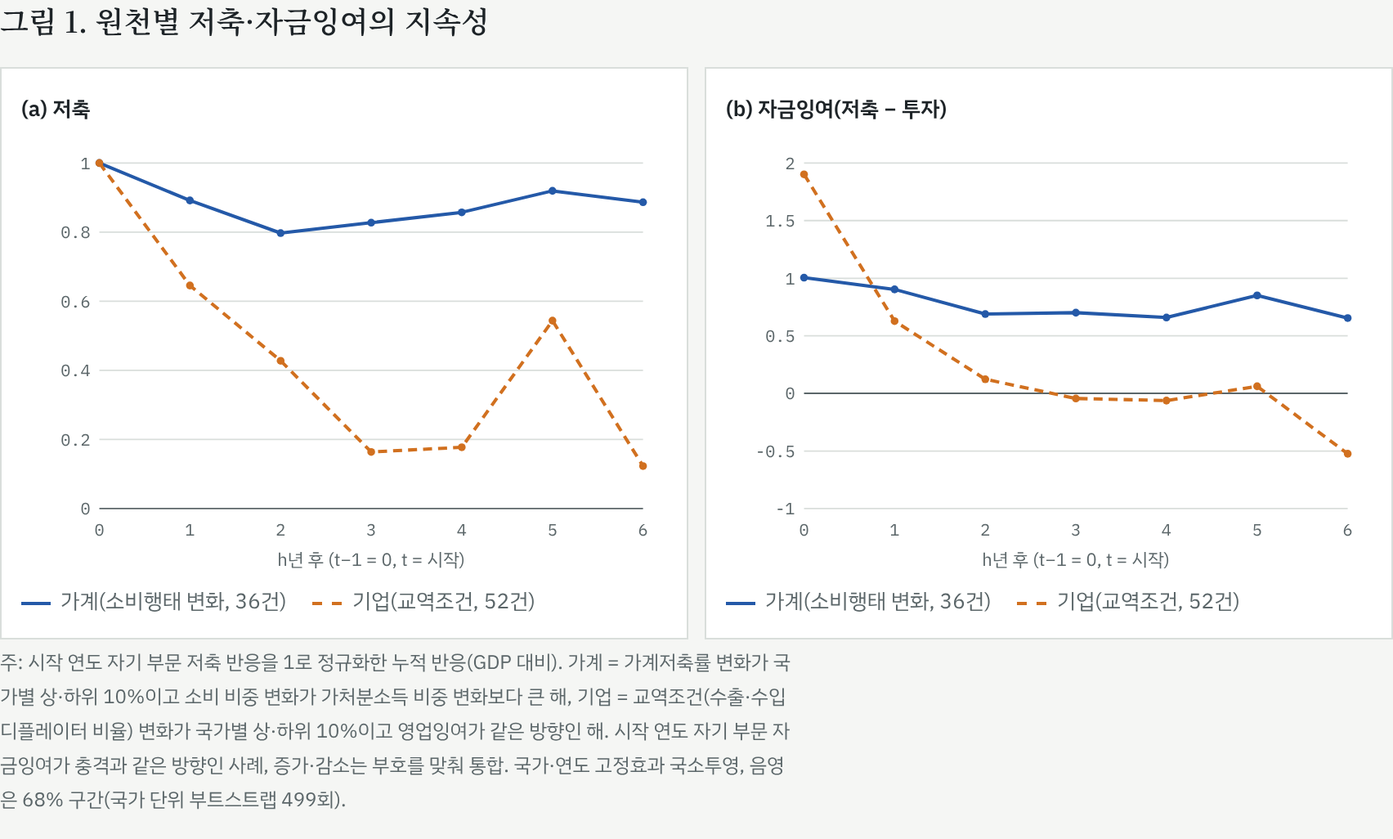
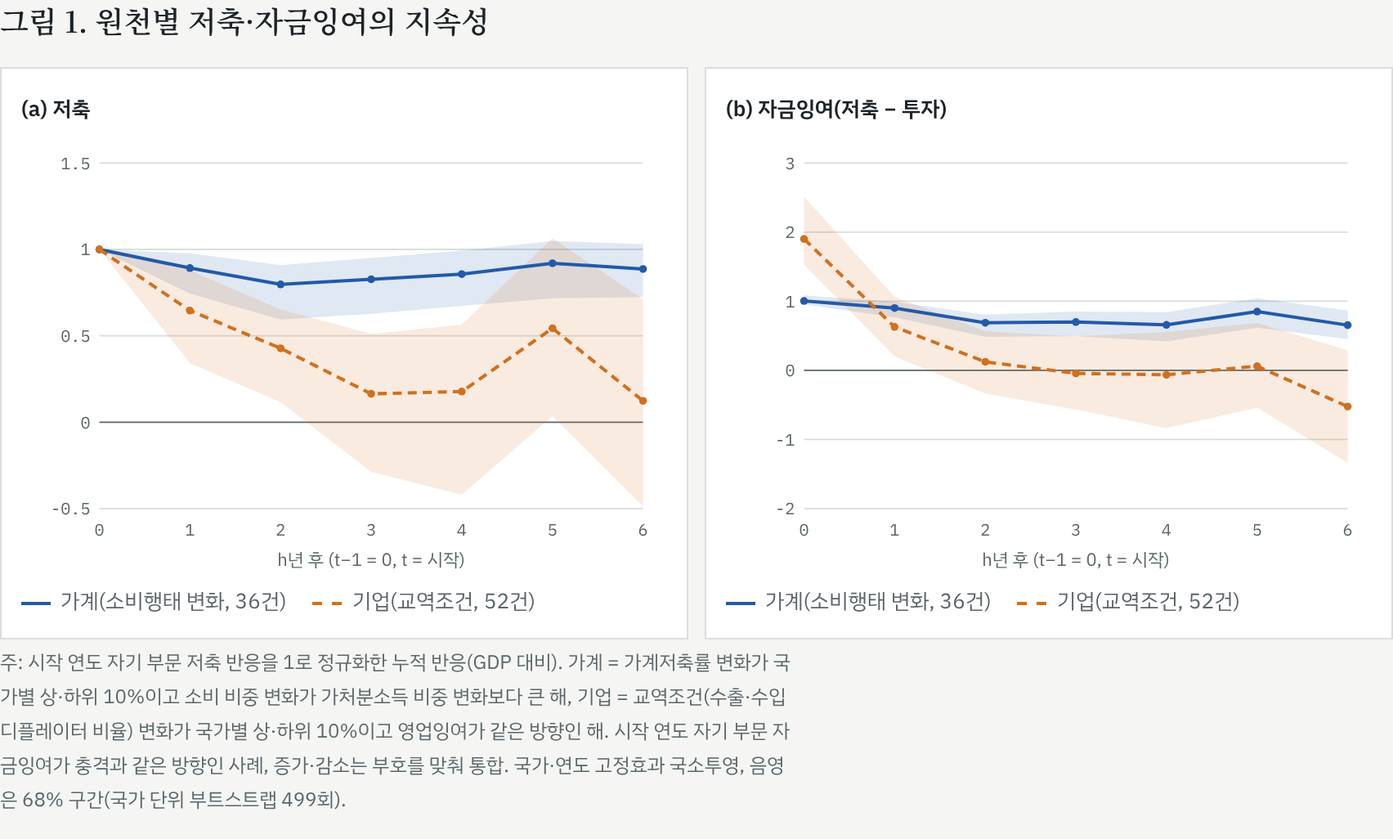
Add final report figures with bootstrap bands and difference tests
Claude-Session: https://claude.ai/code/session_01QSFGVrqZTZBvgbV4CUsjF6

diff --git a/research/sector_saving_ca/output/ep_report_figs.html b/research/sector_saving_ca/output/ep_report_figs.html
@@ -82,4 +82,4 @@ footer { font-size: 13px; color: var(--muted); border-top: 1px solid var(--rule)
 svg .line.s1{stroke:#2459a8;fill:none;stroke-width:2.2} svg .band.s1{fill:#2459a8;opacity:.14} svg .dot.s1{fill:#2459a8}
 svg .line.s2{stroke:#d1701f;fill:none;stroke-width:2.2;stroke-dasharray:6 4} svg .band.s2{fill:#d1701f;opacity:.14} svg .dot.s2{fill:#d1701f}
 svg .line.s3{stroke:#3b8a4f;fill:none;stroke-width:2.2;stroke-dasharray:2 3} svg .dot.s3{fill:#3b8a4f}
-.sw.s1{border-color:#2459a8} .sw.s2{border-color:#d1701f;border-top-style:dashed} .sw.s3{border-color:#3b8a4f;border-top-style:dotted}</style></head><body><main style="max-width:900px"><section id="F1"><h2 style="font-size:18px">그림 1. 원천별 저축·자금잉여의 지속성</h2><div style="display:grid;grid-template-columns:1fr 1fr;gap:10px"><figure><div class="panel-title">(a) 저축</div><svg viewBox="0 0 430 290" role="img" aria-label="(a) 저축"><line class="zero" x1="52" x2="414" y1="246.0" y2="246.0"/><text class="tick" x="46" y="250.0" text-anchor="end">0</text><line class="grid" x1="52" x2="414" y1="200.0" y2="200.0"/><text class="tick" x="46" y="204.0" text-anchor="end">0.2</text><line class="grid" x1="52" x2="414" y1="154.0" y2="154.0"/><text class="tick" x="46" y="158.0" text-anchor="end">0.4</text><line class="grid" x1="52" x2="414" y1="108.0" y2="108.0"/><text class="tick" x="46" y="112.0" text-anchor="end">0.6</text><line class="grid" x1="52" x2="414" y1="62.0" y2="62.0"/><text class="tick" x="46" y="66.0" text-anchor="end">0.8</text><line class="grid" x1="52" x2="414" y1="16.0" y2="16.0"/><text class="tick" x="46" y="20.0" text-anchor="end">1</text><text class="tick" x="52.0" y="264" text-anchor="middle">0</text><text class="tick" x="112.3" y="264" text-anchor="middle">1</text><text class="tick" x="172.7" y="264" text-anchor="middle">2</text><text class="tick" x="233.0" y="264" text-anchor="middle">3</text><text class="tick" x="293.3" y="264" text-anchor="middle">4</text><text class="tick" x="353.7" y="264" text-anchor="middle">5</text><text class="tick" x="414.0" y="264" text-anchor="middle">6</text><text class="axis" x="233.0" y="284" text-anchor="middle">h년 후 (t−1 = 0, t = 시작)</text><polygon class="band s1" points="52.0,16.0 112.3,40.9 172.7,62.6 233.0,55.7 293.3,48.8 353.7,34.5 414.0,42.1 414.0,42.1 353.7,34.5 293.3,48.8 233.0,55.7 172.7,62.6 112.3,40.9 52.0,16.0"/><polygon class="band s2" points="52.0,16.0 112.3,97.5 172.7,147.6 233.0,208.3 293.3,205.2 353.7,120.9 414.0,217.7 414.0,217.7 353.7,120.9 293.3,205.2 233.0,208.3 172.7,147.6 112.3,97.5 52.0,16.0"/><polyline class="line s1" points="52.0,16.0 112.3,40.9 172.7,62.6 233.0,55.7 293.3,48.8 353.7,34.5 414.0,42.1"/><circle class="dot s1" cx="52.0" cy="16.0" r="2.6"/><circle class="dot s1" cx="112.3" cy="40.9" r="2.6"/><circle class="dot s1" cx="172.7" cy="62.6" r="2.6"/><circle class="dot s1" cx="233.0" cy="55.7" r="2.6"/><circle class="dot s1" cx="293.3" cy="48.8" r="2.6"/><circle class="dot s1" cx="353.7" cy="34.5" r="2.6"/><circle class="dot s1" cx="414.0" cy="42.1" r="2.6"/><polyline class="line s2" points="52.0,16.0 112.3,97.5 172.7,147.6 233.0,208.3 293.3,205.2 353.7,120.9 414.0,217.7"/><circle class="dot s2" cx="52.0" cy="16.0" r="2.6"/><circle class="dot s2" cx="112.3" cy="97.5" r="2.6"/><circle class="dot s2" cx="172.7" cy="147.6" r="2.6"/><circle class="dot s2" cx="233.0" cy="208.3" r="2.6"/><circle class="dot s2" cx="293.3" cy="205.2" r="2.6"/><circle class="dot s2" cx="353.7" cy="120.9" r="2.6"/><circle class="dot s2" cx="414.0" cy="217.7" r="2.6"/></svg><div class="legend"><span><i class="sw s1"></i>가계(소비행태 변화, 36건)</span><span><i class="sw s2"></i>기업(교역조건, 52건)</span></div></figure><figure><div class="panel-title">(b) 자금잉여(저축 − 투자)</div><svg viewBox="0 0 430 290" role="img" aria-label="(b) 자금잉여(저축 − 투자)"><line class="grid" x1="52" x2="414" y1="246.0" y2="246.0"/><text class="tick" x="46" y="250.0" text-anchor="end">-1</text><line class="grid" x1="52" x2="414" y1="207.7" y2="207.7"/><text class="tick" x="46" y="211.7" text-anchor="end">-0.5</text><line class="zero" x1="52" x2="414" y1="169.3" y2="169.3"/><text class="tick" x="46" y="173.3" text-anchor="end">0</text><line class="grid" x1="52" x2="414" y1="131.0" y2="131.0"/><text class="tick" x="46" y="135.0" text-anchor="end">0.5</text><line class="grid" x1="52" x2="414" y1="92.7" y2="92.7"/><text class="tick" x="46" y="96.7" text-anchor="end">1</text><line class="grid" x1="52" x2="414" y1="54.3" y2="54.3"/><text class="tick" x="46" y="58.3" text-anchor="end">1.5</text><line class="grid" x1="52" x2="414" y1="16.0" y2="16.0"/><text class="tick" x="46" y="20.0" text-anchor="end">2</text><text class="tick" x="52.0" y="264" text-anchor="middle">0</text><text class="tick" x="112.3" y="264" text-anchor="middle">1</text><text class="tick" x="172.7" y="264" text-anchor="middle">2</text><text class="tick" x="233.0" y="264" text-anchor="middle">3</text><text class="tick" x="293.3" y="264" text-anchor="middle">4</text><text class="tick" x="353.7" y="264" text-anchor="middle">5</text><text class="tick" x="414.0" y="264" text-anchor="middle">6</text><text class="axis" x="233.0" y="284" text-anchor="middle">h년 후 (t−1 = 0, t = 시작)</text><polygon class="band s1" points="52.0,92.3 112.3,100.1 172.7,116.5 233.0,115.6 293.3,118.8 353.7,104.1 414.0,119.2 414.0,119.2 353.7,104.1 293.3,118.8 233.0,115.6 172.7,116.5 112.3,100.1 52.0,92.3"/><polygon class="band s2" points="52.0,23.5 112.3,121.2 172.7,159.9 233.0,172.7 293.3,174.1 353.7,164.6 414.0,209.5 414.0,209.5 353.7,164.6 293.3,174.1 233.0,172.7 172.7,159.9 112.3,121.2 52.0,23.5"/><polyline class="line s1" points="52.0,92.3 112.3,100.1 172.7,116.5 233.0,115.6 293.3,118.8 353.7,104.1 414.0,119.2"/><circle class="dot s1" cx="52.0" cy="92.3" r="2.6"/><circle class="dot s1" cx="112.3" cy="100.1" r="2.6"/><circle class="dot s1" cx="172.7" cy="116.5" r="2.6"/><circle class="dot s1" cx="233.0" cy="115.6" r="2.6"/><circle class="dot s1" cx="293.3" cy="118.8" r="2.6"/><circle class="dot s1" cx="353.7" cy="104.1" r="2.6"/><circle class="dot s1" cx="414.0" cy="119.2" r="2.6"/><polyline class="line s2" points="52.0,23.5 112.3,121.2 172.7,159.9 233.0,172.7 293.3,174.1 353.7,164.6 414.0,209.5"/><circle class="dot s2" cx="52.0" cy="23.5" r="2.6"/><circle class="dot s2" cx="112.3" cy="121.2" r="2.6"/><circle class="dot s2" cx="172.7" cy="159.9" r="2.6"/><circle class="dot s2" cx="233.0" cy="172.7" r="2.6"/><circle class="dot s2" cx="293.3" cy="174.1" r="2.6"/><circle class="dot s2" cx="353.7" cy="164.6" r="2.6"/><circle class="dot s2" cx="414.0" cy="209.5" r="2.6"/></svg><div class="legend"><span><i class="sw s1"></i>가계(소비행태 변화, 36건)</span><span><i class="sw s2"></i>기업(교역조건, 52건)</span></div></figure></div><p class="ci" style="font-size:12px">주: 시작 연도 자기 부문 저축 반응을 1로 정규화한 누적 반응(GDP 대비). 가계 = 가계저축률 변화가 국가별 상·하위 10%이고 소비 비중 변화가 가처분소득 비중 변화보다 큰 해, 기업 = 교역조건(수출·수입 디플레이터 비율) 변화가 국가별 상·하위 10%이고 영업잉여가 같은 방향인 해. 시작 연도 자기 부문 자금잉여가 충격과 같은 방향인 사례, 증가·감소는 부호를 맞춰 통합. 국가·연도 고정효과 국소투영, 음영은 68% 구간(국가 단위 부트스트랩 499회).</p></section><section id="F2"><h2 style="font-size:18px">그림 2. 기업 흑자 소멸 경로와 가계 소비행태</h2><div style="display:grid;grid-template-columns:1fr 1fr;gap:10px"><figure><div class="panel-title">(a) 기업: 영업잉여·배당·고정투자</div><svg viewBox="0 0 430 290" role="img" aria-label="(a) 기업: 영업잉여·배당·고정투자"><line class="grid" x1="52" x2="414" y1="246.0" y2="246.0"/><text class="tick" x="46" y="250.0" text-anchor="end">-0.5</text><line class="zero" x1="52" x2="414" y1="188.5" y2="188.5"/><text class="tick" x="46" y="192.5" text-anchor="end">0</text><line class="grid" x1="52" x2="414" y1="131.0" y2="131.0"/><text class="tick" x="46" y="135.0" text-anchor="end">0.5</text><line class="grid" x1="52" x2="414" y1="73.5" y2="73.5"/><text class="tick" x="46" y="77.5" text-anchor="end">1</text><line class="grid" x1="52" x2="414" y1="16.0" y2="16.0"/><text class="tick" x="46" y="20.0" text-anchor="end">1.5</text><text class="tick" x="52.0" y="264" text-anchor="middle">0</text><text class="tick" x="112.3" y="264" text-anchor="middle">1</text><text class="tick" x="172.7" y="264" text-anchor="middle">2</text><text class="tick" x="233.0" y="264" text-anchor="middle">3</text><text class="tick" x="293.3" y="264" text-anchor="middle">4</text><text class="tick" x="353.7" y="264" text-anchor="middle">5</text><text class="tick" x="414.0" y="264" text-anchor="middle">6</text><text class="axis" x="233.0" y="284" text-anchor="middle">h년 후 (t−1 = 0, t = 시작)</text><polyline class="line s1" points="52.0,44.9 112.3,87.1 172.7,97.7 233.0,109.8 293.3,64.7 353.7,55.6 414.0,75.9"/><circle class="dot s1" cx="52.0" cy="44.9" r="2.6"/><circle class="dot s1" cx="112.3" cy="87.1" r="2.6"/><circle class="dot s1" cx="172.7" cy="97.7" r="2.6"/><circle class="dot s1" cx="233.0" cy="109.8" r="2.6"/><circle class="dot s1" cx="293.3" cy="64.7" r="2.6"/><circle class="dot s1" cx="353.7" cy="55.6" r="2.6"/><circle class="dot s1" cx="414.0" cy="75.9" r="2.6"/><polyline class="line s2" points="52.0,206.7 112.3,168.5 172.7,153.6 233.0,149.8 293.3,91.7 353.7,91.5 414.0,68.0"/><circle class="dot s2" cx="52.0" cy="206.7" r="2.6"/><circle class="dot s2" cx="112.3" cy="168.5" r="2.6"/><circle class="dot s2" cx="172.7" cy="153.6" r="2.6"/><circle class="dot s2" cx="233.0" cy="149.8" r="2.6"/><circle class="dot s2" cx="293.3" cy="91.7" r="2.6"/><circle class="dot s2" cx="353.7" cy="91.5" r="2.6"/><circle class="dot s2" cx="414.0" cy="68.0" r="2.6"/><polyline class="line s3" points="52.0,220.1 112.3,186.3 172.7,163.6 233.0,155.7 293.3,158.2 353.7,126.0 414.0,107.0"/><circle class="dot s3" cx="52.0" cy="220.1" r="2.6"/><circle class="dot s3" cx="112.3" cy="186.3" r="2.6"/><circle class="dot s3" cx="172.7" cy="163.6" r="2.6"/><circle class="dot s3" cx="233.0" cy="155.7" r="2.6"/><circle class="dot s3" cx="293.3" cy="158.2" r="2.6"/><circle class="dot s3" cx="353.7" cy="126.0" r="2.6"/><circle class="dot s3" cx="414.0" cy="107.0" r="2.6"/></svg><div class="legend"><span><i class="sw s1"></i>영업잉여</span><span><i class="sw s2"></i>배당 지급</span><span><i class="sw s3"></i>고정투자</span></div></figure><figure><div class="panel-title">(b) 가계: 가처분소득·소비</div><svg viewBox="0 0 430 290" role="img" aria-label="(b) 가계: 가처분소득·소비"><line class="grid" x1="52" x2="414" y1="246.0" y2="246.0"/><text class="tick" x="46" y="250.0" text-anchor="end">-0.75</text><line class="grid" x1="52" x2="414" y1="200.0" y2="200.0"/><text class="tick" x="46" y="204.0" text-anchor="end">-0.5</text><line class="grid" x1="52" x2="414" y1="154.0" y2="154.0"/><text class="tick" x="46" y="158.0" text-anchor="end">-0.25</text><line class="zero" x1="52" x2="414" y1="108.0" y2="108.0"/><text class="tick" x="46" y="112.0" text-anchor="end">0</text><line class="grid" x1="52" x2="414" y1="62.0" y2="62.0"/><text class="tick" x="46" y="66.0" text-anchor="end">0.25</text><line class="grid" x1="52" x2="414" y1="16.0" y2="16.0"/><text class="tick" x="46" y="20.0" text-anchor="end">0.5</text><text class="tick" x="52.0" y="264" text-anchor="middle">0</text><text class="tick" x="112.3" y="264" text-anchor="middle">1</text><text class="tick" x="172.7" y="264" text-anchor="middle">2</text><text class="tick" x="233.0" y="264" text-anchor="middle">3</text><text class="tick" x="293.3" y="264" text-anchor="middle">4</text><text class="tick" x="353.7" y="264" text-anchor="middle">5</text><text class="tick" x="414.0" y="264" text-anchor="middle">6</text><text class="axis" x="233.0" y="284" text-anchor="middle">h년 후 (t−1 = 0, t = 시작)</text><polyline class="line s1" points="52.0,68.5 112.3,76.5 172.7,60.8 233.0,77.5 293.3,61.1 353.7,69.3 414.0,84.6"/><circle class="dot s1" cx="52.0" cy="68.5" r="2.6"/><circle class="dot s1" cx="112.3" cy="76.5" r="2.6"/><circle class="dot s1" cx="172.7" cy="60.8" r="2.6"/><circle class="dot s1" cx="233.0" cy="77.5" r="2.6"/><circle class="dot s1" cx="293.3" cy="61.1" r="2.6"/><circle class="dot s1" cx="353.7" cy="69.3" r="2.6"/><circle class="dot s1" cx="414.0" cy="84.6" r="2.6"/><polyline class="line s2" points="52.0,234.6 112.3,229.4 172.7,197.8 233.0,217.9 293.3,203.6 353.7,229.9 414.0,234.5"/><circle class="dot s2" cx="52.0" cy="234.6" r="2.6"/><circle class="dot s2" cx="112.3" cy="229.4" r="2.6"/><circle class="dot s2" cx="172.7" cy="197.8" r="2.6"/><circle class="dot s2" cx="233.0" cy="217.9" r="2.6"/><circle class="dot s2" cx="293.3" cy="203.6" r="2.6"/><circle class="dot s2" cx="353.7" cy="229.9" r="2.6"/><circle class="dot s2" cx="414.0" cy="234.5" r="2.6"/></svg><div class="legend"><span><i class="sw s1"></i>가처분소득</span><span><i class="sw s2"></i>소비</span></div></figure></div><p class="ci" style="font-size:12px">주: 시작 연도 자기 부문 저축 반응을 1로 정규화한 누적 반응(GDP 대비). 가계 = 가계저축률 변화가 국가별 상·하위 10%이고 소비 비중 변화가 가처분소득 비중 변화보다 큰 해, 기업 = 교역조건(수출·수입 디플레이터 비율) 변화가 국가별 상·하위 10%이고 영업잉여가 같은 방향인 해. 시작 연도 자기 부문 자금잉여가 충격과 같은 방향인 사례, 증가·감소는 부호를 맞춰 통합. 국가·연도 고정효과 국소투영, 점추정치.</p></section></main></body></html>
+.sw.s1{border-color:#2459a8} .sw.s2{border-color:#d1701f;border-top-style:dashed} .sw.s3{border-color:#3b8a4f;border-top-style:dotted}</style></head><body><main style="max-width:900px"><section id="F1"><h2 style="font-size:18px">그림 1. 원천별 저축·자금잉여의 지속성</h2><div style="display:grid;grid-template-columns:1fr 1fr;gap:10px"><figure><div class="panel-title">(a) 저축</div><svg viewBox="0 0 430 290" role="img" aria-label="(a) 저축"><line class="grid" x1="52" x2="414" y1="246.0" y2="246.0"/><text class="tick" x="46" y="250.0" text-anchor="end">-0.5</text><line class="zero" x1="52" x2="414" y1="188.5" y2="188.5"/><text class="tick" x="46" y="192.5" text-anchor="end">0</text><line class="grid" x1="52" x2="414" y1="131.0" y2="131.0"/><text class="tick" x="46" y="135.0" text-anchor="end">0.5</text><line class="grid" x1="52" x2="414" y1="73.5" y2="73.5"/><text class="tick" x="46" y="77.5" text-anchor="end">1</text><line class="grid" x1="52" x2="414" y1="16.0" y2="16.0"/><text class="tick" x="46" y="20.0" text-anchor="end">1.5</text><text class="tick" x="52.0" y="264" text-anchor="middle">0</text><text class="tick" x="112.3" y="264" text-anchor="middle">1</text><text class="tick" x="172.7" y="264" text-anchor="middle">2</text><text class="tick" x="233.0" y="264" text-anchor="middle">3</text><text class="tick" x="293.3" y="264" text-anchor="middle">4</text><text class="tick" x="353.7" y="264" text-anchor="middle">5</text><text class="tick" x="414.0" y="264" text-anchor="middle">6</text><text class="axis" x="233.0" y="284" text-anchor="middle">h년 후 (t−1 = 0, t = 시작)</text><polygon class="band s1" points="52.0,73.5 112.3,76.1 172.7,83.9 233.0,79.2 293.3,74.3 353.7,67.9 414.0,69.9 414.0,105.2 353.7,106.0 293.3,111.1 233.0,116.4 172.7,120.1 112.3,102.9 52.0,73.5"/><polygon class="band s2" points="52.0,73.5 112.3,87.5 172.7,113.5 233.0,129.7 293.3,123.6 353.7,66.0 414.0,106.7 414.0,244.5 353.7,184.5 293.3,236.8 233.0,221.6 172.7,175.1 112.3,149.1 52.0,73.5"/><polyline class="line s1" points="52.0,73.5 112.3,85.9 172.7,96.8 233.0,93.4 293.3,89.9 353.7,82.7 414.0,86.5"/><circle class="dot s1" cx="52.0" cy="73.5" r="2.6"/><circle class="dot s1" cx="112.3" cy="85.9" r="2.6"/><circle class="dot s1" cx="172.7" cy="96.8" r="2.6"/><circle class="dot s1" cx="233.0" cy="93.4" r="2.6"/><circle class="dot s1" cx="293.3" cy="89.9" r="2.6"/><circle class="dot s1" cx="353.7" cy="82.7" r="2.6"/><circle class="dot s1" cx="414.0" cy="86.5" r="2.6"/><polyline class="line s2" points="52.0,73.5 112.3,114.2 172.7,139.3 233.0,169.6 293.3,168.1 353.7,126.0 414.0,174.3"/><circle class="dot s2" cx="52.0" cy="73.5" r="2.6"/><circle class="dot s2" cx="112.3" cy="114.2" r="2.6"/><circle class="dot s2" cx="172.7" cy="139.3" r="2.6"/><circle class="dot s2" cx="233.0" cy="169.6" r="2.6"/><circle class="dot s2" cx="293.3" cy="168.1" r="2.6"/><circle class="dot s2" cx="353.7" cy="126.0" r="2.6"/><circle class="dot s2" cx="414.0" cy="174.3" r="2.6"/></svg><div class="legend"><span><i class="sw s1"></i>가계(소비행태 변화, 36건)</span><span><i class="sw s2"></i>기업(교역조건, 52건)</span></div></figure><figure><div class="panel-title">(b) 자금잉여(저축 − 투자)</div><svg viewBox="0 0 430 290" role="img" aria-label="(b) 자금잉여(저축 − 투자)"><line class="grid" x1="52" x2="414" y1="246.0" y2="246.0"/><text class="tick" x="46" y="250.0" text-anchor="end">-2</text><line class="grid" x1="52" x2="414" y1="200.0" y2="200.0"/><text class="tick" x="46" y="204.0" text-anchor="end">-1</text><line class="zero" x1="52" x2="414" y1="154.0" y2="154.0"/><text class="tick" x="46" y="158.0" text-anchor="end">0</text><line class="grid" x1="52" x2="414" y1="108.0" y2="108.0"/><text class="tick" x="46" y="112.0" text-anchor="end">1</text><line class="grid" x1="52" x2="414" y1="62.0" y2="62.0"/><text class="tick" x="46" y="66.0" text-anchor="end">2</text><line class="grid" x1="52" x2="414" y1="16.0" y2="16.0"/><text class="tick" x="46" y="20.0" text-anchor="end">3</text><text class="tick" x="52.0" y="264" text-anchor="middle">0</text><text class="tick" x="112.3" y="264" text-anchor="middle">1</text><text class="tick" x="172.7" y="264" text-anchor="middle">2</text><text class="tick" x="233.0" y="264" text-anchor="middle">3</text><text class="tick" x="293.3" y="264" text-anchor="middle">4</text><text class="tick" x="353.7" y="264" text-anchor="middle">5</text><text class="tick" x="414.0" y="264" text-anchor="middle">6</text><text class="axis" x="233.0" y="284" text-anchor="middle">h년 후 (t−1 = 0, t = 시작)</text><polygon class="band s1" points="52.0,104.1 112.3,108.3 172.7,116.9 233.0,114.8 293.3,115.2 353.7,106.0 414.0,114.2 414.0,133.2 353.7,125.6 293.3,134.7 233.0,131.2 172.7,131.6 112.3,118.6 52.0,110.1"/><polygon class="band s2" points="52.0,38.4 112.3,105.0 172.7,128.1 233.0,131.3 293.3,128.4 353.7,122.5 414.0,140.6 414.0,215.6 353.7,178.8 293.3,192.4 233.0,180.0 172.7,169.4 112.3,144.7 52.0,83.7"/><polyline class="line s1" points="52.0,107.8 112.3,112.5 172.7,122.3 233.0,121.8 293.3,123.7 353.7,114.9 414.0,123.9"/><circle class="dot s1" cx="52.0" cy="107.8" r="2.6"/><circle class="dot s1" cx="112.3" cy="112.5" r="2.6"/><circle class="dot s1" cx="172.7" cy="122.3" r="2.6"/><circle class="dot s1" cx="233.0" cy="121.8" r="2.6"/><circle class="dot s1" cx="293.3" cy="123.7" r="2.6"/><circle class="dot s1" cx="353.7" cy="114.9" r="2.6"/><circle class="dot s1" cx="414.0" cy="123.9" r="2.6"/><polyline class="line s2" points="52.0,66.5 112.3,125.1 172.7,148.3 233.0,156.0 293.3,156.9 353.7,151.2 414.0,178.1"/><circle class="dot s2" cx="52.0" cy="66.5" r="2.6"/><circle class="dot s2" cx="112.3" cy="125.1" r="2.6"/><circle class="dot s2" cx="172.7" cy="148.3" r="2.6"/><circle class="dot s2" cx="233.0" cy="156.0" r="2.6"/><circle class="dot s2" cx="293.3" cy="156.9" r="2.6"/><circle class="dot s2" cx="353.7" cy="151.2" r="2.6"/><circle class="dot s2" cx="414.0" cy="178.1" r="2.6"/></svg><div class="legend"><span><i class="sw s1"></i>가계(소비행태 변화, 36건)</span><span><i class="sw s2"></i>기업(교역조건, 52건)</span></div></figure></div><p class="ci" style="font-size:12px">주: 시작 연도 자기 부문 저축 반응을 1로 정규화한 누적 반응(GDP 대비). 가계 = 가계저축률 변화가 국가별 상·하위 10%이고 소비 비중 변화가 가처분소득 비중 변화보다 큰 해, 기업 = 교역조건(수출·수입 디플레이터 비율) 변화가 국가별 상·하위 10%이고 영업잉여가 같은 방향인 해. 시작 연도 자기 부문 자금잉여가 충격과 같은 방향인 사례, 증가·감소는 부호를 맞춰 통합. 국가·연도 고정효과 국소투영, 음영은 68% 구간(국가 단위 부트스트랩 499회).</p></section><section id="F2"><h2 style="font-size:18px">그림 2. 기업 흑자 소멸 경로와 가계 소비행태</h2><div style="display:grid;grid-template-columns:1fr 1fr;gap:10px"><figure><div class="panel-title">(a) 기업: 영업잉여·배당·고정투자</div><svg viewBox="0 0 430 290" role="img" aria-label="(a) 기업: 영업잉여·배당·고정투자"><line class="grid" x1="52" x2="414" y1="246.0" y2="246.0"/><text class="tick" x="46" y="250.0" text-anchor="end">-0.5</text><line class="zero" x1="52" x2="414" y1="188.5" y2="188.5"/><text class="tick" x="46" y="192.5" text-anchor="end">0</text><line class="grid" x1="52" x2="414" y1="131.0" y2="131.0"/><text class="tick" x="46" y="135.0" text-anchor="end">0.5</text><line class="grid" x1="52" x2="414" y1="73.5" y2="73.5"/><text class="tick" x="46" y="77.5" text-anchor="end">1</text><line class="grid" x1="52" x2="414" y1="16.0" y2="16.0"/><text class="tick" x="46" y="20.0" text-anchor="end">1.5</text><text class="tick" x="52.0" y="264" text-anchor="middle">0</text><text class="tick" x="112.3" y="264" text-anchor="middle">1</text><text class="tick" x="172.7" y="264" text-anchor="middle">2</text><text class="tick" x="233.0" y="264" text-anchor="middle">3</text><text class="tick" x="293.3" y="264" text-anchor="middle">4</text><text class="tick" x="353.7" y="264" text-anchor="middle">5</text><text class="tick" x="414.0" y="264" text-anchor="middle">6</text><text class="axis" x="233.0" y="284" text-anchor="middle">h년 후 (t−1 = 0, t = 시작)</text><polyline class="line s1" points="52.0,44.9 112.3,87.1 172.7,97.7 233.0,109.8 293.3,64.7 353.7,55.6 414.0,75.9"/><circle class="dot s1" cx="52.0" cy="44.9" r="2.6"/><circle class="dot s1" cx="112.3" cy="87.1" r="2.6"/><circle class="dot s1" cx="172.7" cy="97.7" r="2.6"/><circle class="dot s1" cx="233.0" cy="109.8" r="2.6"/><circle class="dot s1" cx="293.3" cy="64.7" r="2.6"/><circle class="dot s1" cx="353.7" cy="55.6" r="2.6"/><circle class="dot s1" cx="414.0" cy="75.9" r="2.6"/><polyline class="line s2" points="52.0,206.7 112.3,168.5 172.7,153.6 233.0,149.8 293.3,91.7 353.7,91.5 414.0,68.0"/><circle class="dot s2" cx="52.0" cy="206.7" r="2.6"/><circle class="dot s2" cx="112.3" cy="168.5" r="2.6"/><circle class="dot s2" cx="172.7" cy="153.6" r="2.6"/><circle class="dot s2" cx="233.0" cy="149.8" r="2.6"/><circle class="dot s2" cx="293.3" cy="91.7" r="2.6"/><circle class="dot s2" cx="353.7" cy="91.5" r="2.6"/><circle class="dot s2" cx="414.0" cy="68.0" r="2.6"/><polyline class="line s3" points="52.0,220.1 112.3,186.3 172.7,163.6 233.0,155.7 293.3,158.2 353.7,126.0 414.0,107.0"/><circle class="dot s3" cx="52.0" cy="220.1" r="2.6"/><circle class="dot s3" cx="112.3" cy="186.3" r="2.6"/><circle class="dot s3" cx="172.7" cy="163.6" r="2.6"/><circle class="dot s3" cx="233.0" cy="155.7" r="2.6"/><circle class="dot s3" cx="293.3" cy="158.2" r="2.6"/><circle class="dot s3" cx="353.7" cy="126.0" r="2.6"/><circle class="dot s3" cx="414.0" cy="107.0" r="2.6"/></svg><div class="legend"><span><i class="sw s1"></i>영업잉여</span><span><i class="sw s2"></i>배당 지급</span><span><i class="sw s3"></i>고정투자</span></div></figure><figure><div class="panel-title">(b) 가계: 가처분소득·소비</div><svg viewBox="0 0 430 290" role="img" aria-label="(b) 가계: 가처분소득·소비"><line class="grid" x1="52" x2="414" y1="246.0" y2="246.0"/><text class="tick" x="46" y="250.0" text-anchor="end">-0.75</text><line class="grid" x1="52" x2="414" y1="200.0" y2="200.0"/><text class="tick" x="46" y="204.0" text-anchor="end">-0.5</text><line class="grid" x1="52" x2="414" y1="154.0" y2="154.0"/><text class="tick" x="46" y="158.0" text-anchor="end">-0.25</text><line class="zero" x1="52" x2="414" y1="108.0" y2="108.0"/><text class="tick" x="46" y="112.0" text-anchor="end">0</text><line class="grid" x1="52" x2="414" y1="62.0" y2="62.0"/><text class="tick" x="46" y="66.0" text-anchor="end">0.25</text><line class="grid" x1="52" x2="414" y1="16.0" y2="16.0"/><text class="tick" x="46" y="20.0" text-anchor="end">0.5</text><text class="tick" x="52.0" y="264" text-anchor="middle">0</text><text class="tick" x="112.3" y="264" text-anchor="middle">1</text><text class="tick" x="172.7" y="264" text-anchor="middle">2</text><text class="tick" x="233.0" y="264" text-anchor="middle">3</text><text class="tick" x="293.3" y="264" text-anchor="middle">4</text><text class="tick" x="353.7" y="264" text-anchor="middle">5</text><text class="tick" x="414.0" y="264" text-anchor="middle">6</text><text class="axis" x="233.0" y="284" text-anchor="middle">h년 후 (t−1 = 0, t = 시작)</text><polyline class="line s1" points="52.0,68.5 112.3,76.5 172.7,60.8 233.0,77.5 293.3,61.1 353.7,69.3 414.0,84.6"/><circle class="dot s1" cx="52.0" cy="68.5" r="2.6"/><circle class="dot s1" cx="112.3" cy="76.5" r="2.6"/><circle class="dot s1" cx="172.7" cy="60.8" r="2.6"/><circle class="dot s1" cx="233.0" cy="77.5" r="2.6"/><circle class="dot s1" cx="293.3" cy="61.1" r="2.6"/><circle class="dot s1" cx="353.7" cy="69.3" r="2.6"/><circle class="dot s1" cx="414.0" cy="84.6" r="2.6"/><polyline class="line s2" points="52.0,234.6 112.3,229.4 172.7,197.8 233.0,217.9 293.3,203.6 353.7,229.9 414.0,234.5"/><circle class="dot s2" cx="52.0" cy="234.6" r="2.6"/><circle class="dot s2" cx="112.3" cy="229.4" r="2.6"/><circle class="dot s2" cx="172.7" cy="197.8" r="2.6"/><circle class="dot s2" cx="233.0" cy="217.9" r="2.6"/><circle class="dot s2" cx="293.3" cy="203.6" r="2.6"/><circle class="dot s2" cx="353.7" cy="229.9" r="2.6"/><circle class="dot s2" cx="414.0" cy="234.5" r="2.6"/></svg><div class="legend"><span><i class="sw s1"></i>가처분소득</span><span><i class="sw s2"></i>소비</span></div></figure></div><p class="ci" style="font-size:12px">주: 시작 연도 자기 부문 저축 반응을 1로 정규화한 누적 반응(GDP 대비). 가계 = 가계저축률 변화가 국가별 상·하위 10%이고 소비 비중 변화가 가처분소득 비중 변화보다 큰 해, 기업 = 교역조건(수출·수입 디플레이터 비율) 변화가 국가별 상·하위 10%이고 영업잉여가 같은 방향인 해. 시작 연도 자기 부문 자금잉여가 충격과 같은 방향인 사례, 증가·감소는 부호를 맞춰 통합. 국가·연도 고정효과 국소투영, 점추정치.</p></section></main></body></html>
